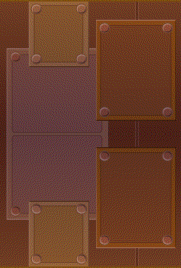
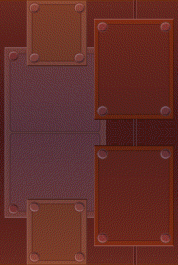
【小新】场景资源更新

diff --git a/小新资源（覆盖测试）/custom-config.js b/小新资源（覆盖测试）/custom-config.js
@@ -132,9 +132,9 @@ Config.mapList = [
             // 底部
             top: "images/map/stg40/l_stg40Road01TopSkin.png",
             // 侧边
-            side2: "images/map/stg40/l_stg40Road01SideSkin.png",
+            side2: "images/map/stg40/l_stg40Road02SideSkin.png",
             // 底部
-            top2: "images/map/stg40/l_stg40Road01TopSkin.png",
+            top2: "images/map/stg40/l_stg40Road02TopSkin.png",
             // 背景 有多少层背景就配置多少张
             bg: [
                 "images/map/stg40/l_stg40_01.png",
@@ -216,9 +216,9 @@ Config.mapList = [
             // 底部
             top: "images/map/stg20/l_stg20Road01TopSkin.png",
             // 侧边
-            side2: "images/map/stg20/l_stg20Road01SideSkin.png",
+            side2: "images/map/stg20/l_stg20Road02SideSkin.png",
             // 底部
-            top2: "images/map/stg20/l_stg20Road01TopSkin.png",
+            top2: "images/map/stg20/l_stg20Road02TopSkin.png",
             // 背景 有多少层背景就配置多少张
             bg: [
                 "images/map/stg20/l_stg20_01.png",
@@ -300,9 +300,9 @@ Config.mapList = [
             // 底部
             top: "images/map/stg06/l_stg06Road01TopSkin.png",
             // 侧边
-            side2: "images/map/stg06/l_stg06Road01SideSkin.png",
+            side2: "images/map/stg06/l_stg06Road02SideSkin.png",
             // 底部
-            top2: "images/map/stg06/l_stg06Road01TopSkin.png",
+            top2: "images/map/stg06/l_stg06Road02TopSkin.png",
             // 背景 有多少层背景就配置多少张
             bg: [
                 "images/map/stg06/l_stg06_01.png",
@@ -384,9 +384,9 @@ Config.mapList = [
             // 底部
             top: "images/map/stg04/l_stg04Road01TopSkin.png",
             // 侧边
-            side2: "images/map/stg04/l_stg04Road01SideSkin.png",
+            side2: "images/map/stg04/l_stg04Road02SideSkin.png",
             // 底部
-            top2: "images/map/stg04/l_stg04Road01TopSkin.png",
+            top2: "images/map/stg04/l_stg04Road02TopSkin.png",
             // 背景 有多少层背景就配置多少张
             bg: [
                 "images/map/stg04/l_stg04_01.png",
@@ -468,9 +468,9 @@ Config.mapList = [
             // 底部
             top: "images/map/stg02/l_stg02Road01TopSkin.png",
             // 侧边
-            side2: "images/map/stg02/l_stg02Road01SideSkin.png",
+            side2: "images/map/stg02/l_stg02Road02SideSkin.png",
             // 底部
-            top2: "images/map/stg02/l_stg02Road01TopSkin.png",
+            top2: "images/map/stg02/l_stg02Road02TopSkin.png",
             // 背景 有多少层背景就配置多少张
             bg: [
                 "images/map/stg02/l_stg02_01.png",
@@ -552,9 +552,9 @@ Config.mapList = [
             // 底部
             top: "images/map/stg40/l_stg40Road01TopSkin.png",
             // 侧边
-            side2: "images/map/stg40/l_stg40Road01SideSkin.png",
+            side2: "images/map/stg40/l_stg40Road02SideSkin.png",
             // 底部
-            top2: "images/map/stg40/l_stg40Road01TopSkin.png",
+            top2: "images/map/stg40/l_stg40Road02TopSkin.png",
             // 背景 有多少层背景就配置多少张
             bg: [
                 "images/map/stg40/l_stg40_01.png",
@@ -636,9 +636,9 @@ Config.mapList = [
             // 底部
             top: "images/map/stg40/l_stg40Road01TopSkin.png",
             // 侧边
-            side2: "images/map/stg40/l_stg40Road01SideSkin.png",
+            side2: "images/map/stg40/l_stg40Road02SideSkin.png",
             // 底部
-            top2: "images/map/stg40/l_stg40Road01TopSkin.png",
+            top2: "images/map/stg40/l_stg40Road02TopSkin.png",
             // 背景 有多少层背景就配置多少张
             bg: [
                 "images/map/stg40/l_stg40_01.png",
@@ -720,9 +720,9 @@ Config.mapList = [
             // 底部
             top: "images/map/stg40/l_stg40Road01TopSkin.png",
             // 侧边
-            side2: "images/map/stg40/l_stg40Road01SideSkin.png",
+            side2: "images/map/stg40/l_stg40Road02SideSkin.png",
             // 底部
-            top2: "images/map/stg40/l_stg40Road01TopSkin.png",
+            top2: "images/map/stg40/l_stg40Road02TopSkin.png",
             // 背景 有多少层背景就配置多少张
             bg: [
                 "images/map/stg40/l_stg40_01.png",
@@ -804,9 +804,9 @@ Config.mapList = [
             // 底部
             top: "images/map/stg40/l_stg40Road01TopSkin.png",
             // 侧边
-            side2: "images/map/stg40/l_stg40Road01SideSkin.png",
+            side2: "images/map/stg40/l_stg40Road02SideSkin.png",
             // 底部
-            top2: "images/map/stg40/l_stg40Road01TopSkin.png",
+            top2: "images/map/stg40/l_stg40Road02TopSkin.png",
             // 背景 有多少层背景就配置多少张
             bg: [
                 "images/map/stg40/l_stg40_01.png",
@@ -888,9 +888,9 @@ Config.mapList = [
             // 底部
             top: "images/map/stg40/l_stg40Road01TopSkin.png",
             // 侧边
-            side2: "images/map/stg40/l_stg40Road01SideSkin.png",
+            side2: "images/map/stg40/l_stg40Road02SideSkin.png",
             // 底部
-            top2: "images/map/stg40/l_stg40Road01TopSkin.png",
+            top2: "images/map/stg40/l_stg40Road02TopSkin.png",
             // 背景 有多少层背景就配置多少张
             bg: [
                 "images/map/stg40/l_stg40_01.png",
@@ -972,9 +972,9 @@ Config.mapList = [
             // 底部
             top: "images/map/stg40/l_stg40Road01TopSkin.png",
             // 侧边
-            side2: "images/map/stg40/l_stg40Road01SideSkin.png",
+            side2: "images/map/stg40/l_stg40Road02SideSkin.png",
             // 底部
-            top2: "images/map/stg40/l_stg40Road01TopSkin.png",
+            top2: "images/map/stg40/l_stg40Road02TopSkin.png",
             // 背景 有多少层背景就配置多少张
             bg: [
                 "images/map/stg40/l_stg40_01.png",
@@ -1056,9 +1056,9 @@ Config.mapList = [
             // 底部
             top: "images/map/stg40/l_stg40Road01TopSkin.png",
             // 侧边
-            side2: "images/map/stg40/l_stg40Road01SideSkin.png",
+            side2: "images/map/stg40/l_stg40Road02SideSkin.png",
             // 底部
-            top2: "images/map/stg40/l_stg40Road01TopSkin.png",
+            top2: "images/map/stg40/l_stg40Road02TopSkin.png",
             // 背景 有多少层背景就配置多少张
             bg: [
                 "images/map/stg40/l_stg40_01.png",
@@ -1477,9 +1477,9 @@ Config.endlessMode.sceneList = [
             // 底部
             top: "images/map/stg40/l_stg40Road01TopSkin.png",
             // 侧边
-            side2: "images/map/stg40/l_stg40Road01SideSkin.png",
+            side2: "images/map/stg40/l_stg40Road02SideSkin.png",
             // 底部
-            top2: "images/map/stg40/l_stg40Road01TopSkin.png",
+            top2: "images/map/stg40/l_stg40Road02TopSkin.png",
             // 背景 有多少层背景就配置多少张
             bg: [
                 "images/map/stg40/l_stg40_01.png",
@@ -1549,9 +1549,9 @@ Config.endlessMode.sceneList = [
             // 底部
             top: "images/map/stg20/l_stg20Road01TopSkin.png",
             // 侧边
-            side2: "images/map/stg20/l_stg20Road01SideSkin.png",
+            side2: "images/map/stg20/l_stg20Road02SideSkin.png",
             // 底部
-            top2: "images/map/stg20/l_stg20Road01TopSkin.png",
+            top2: "images/map/stg20/l_stg20Road02TopSkin.png",
             // 背景 有多少层背景就配置多少张
             bg: [
                 "images/map/stg20/l_stg20_01.png",
@@ -1621,9 +1621,9 @@ Config.endlessMode.sceneList = [
             // 底部
             top: "images/map/stg06/l_stg06Road01TopSkin.png",
             // 侧边
-            side2: "images/map/stg06/l_stg06Road01SideSkin.png",
+            side2: "images/map/stg06/l_stg06Road02SideSkin.png",
             // 底部
-            top2: "images/map/stg06/l_stg06Road01TopSkin.png",
+            top2: "images/map/stg06/l_stg06Road02TopSkin.png",
             // 背景 有多少层背景就配置多少张
             bg: [
                 "images/map/stg06/l_stg06_01.png",
@@ -1693,9 +1693,9 @@ Config.endlessMode.sceneList = [
             // 底部
             top: "images/map/stg04/l_stg04Road01TopSkin.png",
             // 侧边
-            side2: "images/map/stg04/l_stg04Road01SideSkin.png",
+            side2: "images/map/stg04/l_stg04Road02SideSkin.png",
             // 底部
-            top2: "images/map/stg04/l_stg04Road01TopSkin.png",
+            top2: "images/map/stg04/l_stg04Road02TopSkin.png",
             // 背景 有多少层背景就配置多少张
             bg: [
                 "images/map/stg04/l_stg04_01.png",
@@ -1765,9 +1765,9 @@ Config.endlessMode.sceneList = [
             // 底部
             top: "images/map/stg02/l_stg02Road01TopSkin.png",
             // 侧边
-            side2: "images/map/stg02/l_stg02Road01SideSkin.png",
+            side2: "images/map/stg02/l_stg02Road02SideSkin.png",
             // 底部
-            top2: "images/map/stg02/l_stg02Road01TopSkin.png",
+            top2: "images/map/stg02/l_stg02Road02TopSkin.png",
             // 背景 有多少层背景就配置多少张
             bg: [
                 "images/map/stg02/l_stg02_01.png",
@@ -1837,9 +1837,9 @@ Config.endlessMode.sceneList = [
             // 底部
             top: "images/map/stg40/l_stg40Road01TopSkin.png",
             // 侧边
-            side2: "images/map/stg40/l_stg40Road01SideSkin.png",
+            side2: "images/map/stg40/l_stg40Road02SideSkin.png",
             // 底部
-            top2: "images/map/stg40/l_stg40Road01TopSkin.png",
+            top2: "images/map/stg40/l_stg40Road02TopSkin.png",
             // 背景 有多少层背景就配置多少张
             bg: [
                 "images/map/stg40/l_stg40_01.png",
@@ -1909,9 +1909,9 @@ Config.endlessMode.sceneList = [
             // 底部
             top: "images/map/stg40/l_stg40Road01TopSkin.png",
             // 侧边
-            side2: "images/map/stg40/l_stg40Road01SideSkin.png",
+            side2: "images/map/stg40/l_stg40Road02SideSkin.png",
             // 底部
-            top2: "images/map/stg40/l_stg40Road01TopSkin.png",
+            top2: "images/map/stg40/l_stg40Road02TopSkin.png",
             // 背景 有多少层背景就配置多少张
             bg: [
                 "images/map/stg40/l_stg40_01.png",
@@ -1981,9 +1981,9 @@ Config.endlessMode.sceneList = [
             // 底部
             top: "images/map/stg40/l_stg40Road01TopSkin.png",
             // 侧边
-            side2: "images/map/stg40/l_stg40Road01SideSkin.png",
+            side2: "images/map/stg40/l_stg40Road02SideSkin.png",
             // 底部
-            top2: "images/map/stg40/l_stg40Road01TopSkin.png",
+            top2: "images/map/stg40/l_stg40Road02TopSkin.png",
             // 背景 有多少层背景就配置多少张
             bg: [
                 "images/map/stg40/l_stg40_01.png",
@@ -2053,9 +2053,9 @@ Config.endlessMode.sceneList = [
             // 底部
             top: "images/map/stg40/l_stg40Road01TopSkin.png",
             // 侧边
-            side2: "images/map/stg40/l_stg40Road01SideSkin.png",
+            side2: "images/map/stg40/l_stg40Road02SideSkin.png",
             // 底部
-            top2: "images/map/stg40/l_stg40Road01TopSkin.png",
+            top2: "images/map/stg40/l_stg40Road02TopSkin.png",
             // 背景 有多少层背景就配置多少张
             bg: [
                 "images/map/stg40/l_stg40_01.png",
@@ -2125,9 +2125,9 @@ Config.endlessMode.sceneList = [
             // 底部
             top: "images/map/stg40/l_stg40Road01TopSkin.png",
             // 侧边
-            side2: "images/map/stg40/l_stg40Road01SideSkin.png",
+            side2: "images/map/stg40/l_stg40Road02SideSkin.png",
             // 底部
-            top2: "images/map/stg40/l_stg40Road01TopSkin.png",
+            top2: "images/map/stg40/l_stg40Road02TopSkin.png",
             // 背景 有多少层背景就配置多少张
             bg: [
                 "images/map/stg40/l_stg40_01.png",
@@ -2197,9 +2197,9 @@ Config.endlessMode.sceneList = [
             // 底部
             top: "images/map/stg40/l_stg40Road01TopSkin.png",
             // 侧边
-            side2: "images/map/stg40/l_stg40Road01SideSkin.png",
+            side2: "images/map/stg40/l_stg40Road02SideSkin.png",
             // 底部
-            top2: "images/map/stg40/l_stg40Road01TopSkin.png",
+            top2: "images/map/stg40/l_stg40Road02TopSkin.png",
             // 背景 有多少层背景就配置多少张
             bg: [
                 "images/map/stg40/l_stg40_01.png",
@@ -2269,9 +2269,9 @@ Config.endlessMode.sceneList = [
             // 底部
             top: "images/map/stg40/l_stg40Road01TopSkin.png",
             // 侧边
-            side2: "images/map/stg40/l_stg40Road01SideSkin.png",
+            side2: "images/map/stg40/l_stg40Road02SideSkin.png",
             // 底部
-            top2: "images/map/stg40/l_stg40Road01TopSkin.png",
+            top2: "images/map/stg40/l_stg40Road02TopSkin.png",
             // 背景 有多少层背景就配置多少张
             bg: [
                 "images/map/stg40/l_stg40_01.png",
@@ -9734,9 +9734,9 @@ Config.gameLevelMode = {
 				// 底部
 				top: "images/map/stg40/l_stg40Road01TopSkin.png",
 				// 侧边
-				side2: "images/map/stg40/l_stg40Road01SideSkin.png",
+				side2: "images/map/stg40/l_stg40Road02SideSkin.png",
 				// 底部
-				top2: "images/map/stg40/l_stg40Road01TopSkin.png",
+				top2: "images/map/stg40/l_stg40Road02TopSkin.png",
 				// 背景 有多少层背景就配置多少张
 				bg: [
 					"images/map/stg40/l_stg40_01.png",
@@ -9798,9 +9798,9 @@ Config.gameLevelMode = {
 				// 底部
 				top: "images/map/stg20/l_stg20Road01TopSkin.png",
 				// 侧边
-				side2: "images/map/stg20/l_stg20Road01SideSkin.png",
+				side2: "images/map/stg20/l_stg20Road02SideSkin.png",
 				// 底部
-				top2: "images/map/stg20/l_stg20Road01TopSkin.png",
+				top2: "images/map/stg20/l_stg20Road02TopSkin.png",
 				// 背景 有多少层背景就配置多少张
 				bg: [
 					"images/map/stg20/l_stg20_01.png",
@@ -9862,9 +9862,9 @@ Config.gameLevelMode = {
 				// 底部
 				top: "images/map/stg06/l_stg06Road01TopSkin.png",
 				// 侧边
-				side2: "images/map/stg06/l_stg06Road01SideSkin.png",
+				side2: "images/map/stg06/l_stg06Road02SideSkin.png",
 				// 底部
-				top2: "images/map/stg06/l_stg06Road01TopSkin.png",
+				top2: "images/map/stg06/l_stg06Road02TopSkin.png",
 				// 背景 有多少层背景就配置多少张
 				bg: [
 					"images/map/stg06/l_stg06_01.png",
@@ -9926,9 +9926,9 @@ Config.gameLevelMode = {
 				// 底部
 				top: "images/map/stg04/l_stg04Road01TopSkin.png",
 				// 侧边
-				side2: "images/map/stg04/l_stg04Road01SideSkin.png",
+				side2: "images/map/stg04/l_stg04Road02SideSkin.png",
 				// 底部
-				top2: "images/map/stg04/l_stg04Road01TopSkin.png",
+				top2: "images/map/stg04/l_stg04Road02TopSkin.png",
 				// 背景 有多少层背景就配置多少张
 				bg: [
 					"images/map/stg04/l_stg04_01.png",
@@ -9990,9 +9990,9 @@ Config.gameLevelMode = {
 				// 底部
 				top: "images/map/stg02/l_stg02Road01TopSkin.png",
 				// 侧边
-				side2: "images/map/stg02/l_stg02Road01SideSkin.png",
+				side2: "images/map/stg02/l_stg02Road02SideSkin.png",
 				// 底部
-				top2: "images/map/stg02/l_stg02Road01TopSkin.png",
+				top2: "images/map/stg02/l_stg02Road02TopSkin.png",
 				// 背景 有多少层背景就配置多少张
 				bg: [
 					"images/map/stg02/l_stg02_01.png",
